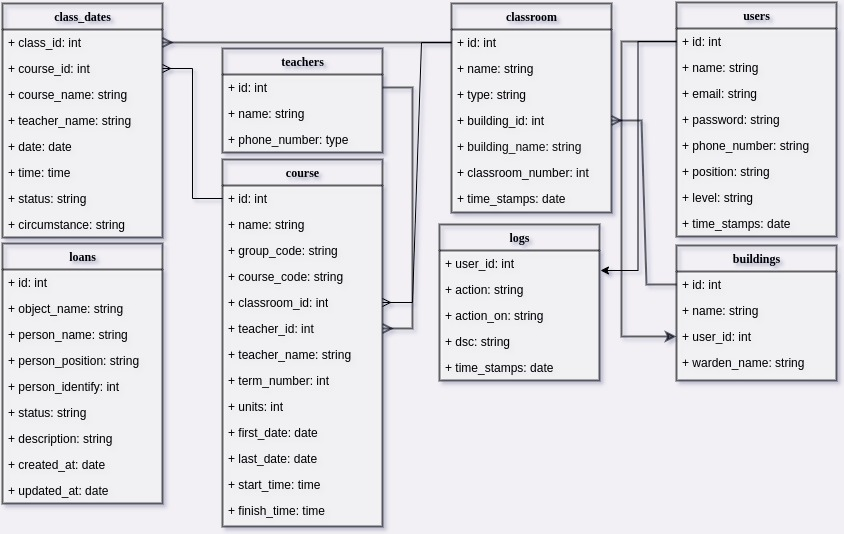
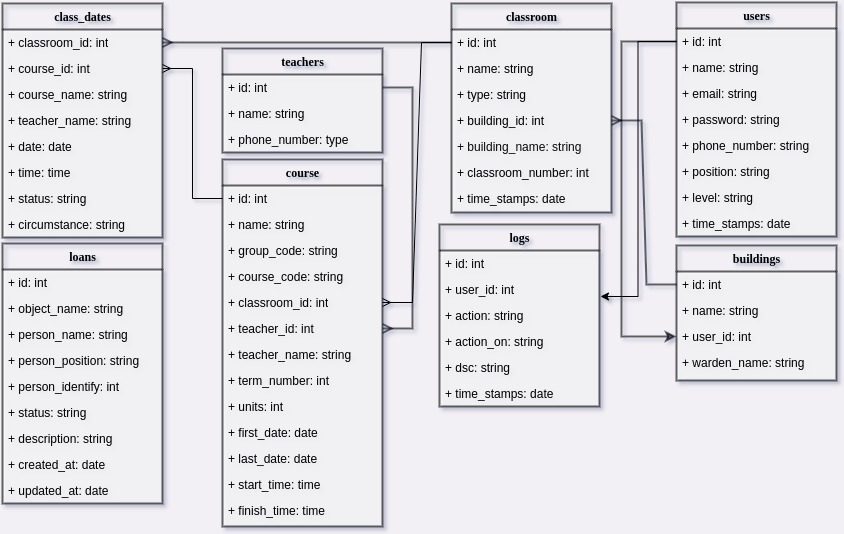
create log model with all

diff --git a/Education/app/Policies/LogPolicy.php b/Education/app/Policies/LogPolicy.php
@@ -1,0 +1,94 @@
+<?php
+
+namespace App\Policies;
+
+use App\Models\Log;
+use App\Models\User;
+use Illuminate\Auth\Access\HandlesAuthorization;
+
+class LogPolicy
+{
+    use HandlesAuthorization;
+
+    /**
+     * Determine whether the user can view any models.
+     *
+     * @param  \App\Models\User  $user
+     * @return \Illuminate\Auth\Access\Response|bool
+     */
+    public function viewAny(User $user)
+    {
+        //
+    }
+
+    /**
+     * Determine whether the user can view the model.
+     *
+     * @param  \App\Models\User  $user
+     * @param  \App\Models\Log  $log
+     * @return \Illuminate\Auth\Access\Response|bool
+     */
+    public function view(User $user, Log $log)
+    {
+        //
+    }
+
+    /**
+     * Determine whether the user can create models.
+     *
+     * @param  \App\Models\User  $user
+     * @return \Illuminate\Auth\Access\Response|bool
+     */
+    public function create(User $user)
+    {
+        //
+    }
+
+    /**
+     * Determine whether the user can update the model.
+     *
+     * @param  \App\Models\User  $user
+     * @param  \App\Models\Log  $log
+     * @return \Illuminate\Auth\Access\Response|bool
+     */
+    public function update(User $user, Log $log)
+    {
+        //
+    }
+
+    /**
+     * Determine whether the user can delete the model.
+     *
+     * @param  \App\Models\User  $user
+     * @param  \App\Models\Log  $log
+     * @return \Illuminate\Auth\Access\Response|bool
+     */
+    public function delete(User $user, Log $log)
+    {
+        //
+    }
+
+    /**
+     * Determine whether the user can restore the model.
+     *
+     * @param  \App\Models\User  $user
+     * @param  \App\Models\Log  $log
+     * @return \Illuminate\Auth\Access\Response|bool
+     */
+    public function restore(User $user, Log $log)
+    {
+        //
+    }
+
+    /**
+     * Determine whether the user can permanently delete the model.
+     *
+     * @param  \App\Models\User  $user
+     * @param  \App\Models\Log  $log
+     * @return \Illuminate\Auth\Access\Response|bool
+     */
+    public function forceDelete(User $user, Log $log)
+    {
+        //
+    }
+}

diff --git a/Education/app/Http/Controllers/LogController.php b/Education/app/Http/Controllers/LogController.php
@@ -1,0 +1,86 @@
+<?php
+
+namespace App\Http\Controllers;
+
+use App\Http\Requests\StoreLogRequest;
+use App\Http\Requests\UpdateLogRequest;
+use App\Models\Log;
+
+class LogController extends Controller
+{
+    /**
+     * Display a listing of the resource.
+     *
+     * @return \Illuminate\Http\Response
+     */
+    public function index()
+    {
+        //
+    }
+
+    /**
+     * Show the form for creating a new resource.
+     *
+     * @return \Illuminate\Http\Response
+     */
+    public function create()
+    {
+        //
+    }
+
+    /**
+     * Store a newly created resource in storage.
+     *
+     * @param  \App\Http\Requests\StoreLogRequest  $request
+     * @return \Illuminate\Http\Response
+     */
+    public function store(StoreLogRequest $request)
+    {
+        //
+    }
+
+    /**
+     * Display the specified resource.
+     *
+     * @param  \App\Models\Log  $log
+     * @return \Illuminate\Http\Response
+     */
+    public function show(Log $log)
+    {
+        //
+    }
+
+    /**
+     * Show the form for editing the specified resource.
+     *
+     * @param  \App\Models\Log  $log
+     * @return \Illuminate\Http\Response
+     */
+    public function edit(Log $log)
+    {
+        //
+    }
+
+    /**
+     * Update the specified resource in storage.
+     *
+     * @param  \App\Http\Requests\UpdateLogRequest  $request
+     * @param  \App\Models\Log  $log
+     * @return \Illuminate\Http\Response
+     */
+    public function update(UpdateLogRequest $request, Log $log)
+    {
+        //
+    }
+
+    /**
+     * Remove the specified resource from storage.
+     *
+     * @param  \App\Models\Log  $log
+     * @return \Illuminate\Http\Response
+     */
+    public function destroy(Log $log)
+    {
+        //
+    }
+}

diff --git a/Education/database/migrations/2022_12_08_190207_create_logs_table.php b/Education/database/migrations/2022_12_08_190207_create_logs_table.php
@@ -1,0 +1,35 @@
+<?php
+
+use Illuminate\Database\Migrations\Migration;
+use Illuminate\Database\Schema\Blueprint;
+use Illuminate\Support\Facades\Schema;
+
+return new class extends Migration
+{
+    /**
+     * Run the migrations.
+     *
+     * @return void
+     */
+    public function up()
+    {
+        Schema::create('logs', function (Blueprint $table) {
+            $table->id();
+            $table->foreign('user_id')->references('id')->on('users');
+            $table->string('action');
+            $table->string('action_on');
+            $table->string('dsc');
+            $table->timestamps();
+        });
+    }
+
+    /**
+     * Reverse the migrations.
+     *
+     * @return void
+     */
+    public function down()
+    {
+        Schema::dropIfExists('logs');
+    }
+};

diff --git a/Education/app/Http/Requests/UpdateLogRequest.php b/Education/app/Http/Requests/UpdateLogRequest.php
@@ -1,0 +1,30 @@
+<?php
+
+namespace App\Http\Requests;
+
+use Illuminate\Foundation\Http\FormRequest;
+
+class UpdateLogRequest extends FormRequest
+{
+    /**
+     * Determine if the user is authorized to make this request.
+     *
+     * @return bool
+     */
+    public function authorize()
+    {
+        return false;
+    }
+
+    /**
+     * Get the validation rules that apply to the request.
+     *
+     * @return array<string, mixed>
+     */
+    public function rules()
+    {
+        return [
+            //
+        ];
+    }
+}

diff --git a/Education/app/Http/Requests/StoreLogRequest.php b/Education/app/Http/Requests/StoreLogRequest.php
@@ -1,0 +1,30 @@
+<?php
+
+namespace App\Http\Requests;
+
+use Illuminate\Foundation\Http\FormRequest;
+
+class StoreLogRequest extends FormRequest
+{
+    /**
+     * Determine if the user is authorized to make this request.
+     *
+     * @return bool
+     */
+    public function authorize()
+    {
+        return false;
+    }
+
+    /**
+     * Get the validation rules that apply to the request.
+     *
+     * @return array<string, mixed>
+     */
+    public function rules()
+    {
+        return [
+            //
+        ];
+    }
+}

diff --git a/Education/database/factories/LogFactory.php b/Education/database/factories/LogFactory.php
@@ -1,0 +1,23 @@
+<?php
+
+namespace Database\Factories;
+
+use Illuminate\Database\Eloquent\Factories\Factory;
+
+/**
+ * @extends \Illuminate\Database\Eloquent\Factories\Factory<\App\Models\Log>
+ */
+class LogFactory extends Factory
+{
+    /**
+     * Define the model's default state.
+     *
+     * @return array<string, mixed>
+     */
+    public function definition()
+    {
+        return [
+            //
+        ];
+    }
+}

diff --git a/Education/database/seeders/LogSeeder.php b/Education/database/seeders/LogSeeder.php
@@ -1,0 +1,19 @@
+<?php
+
+namespace Database\Seeders;
+
+use Illuminate\Database\Console\Seeds\WithoutModelEvents;
+use Illuminate\Database\Seeder;
+
+class LogSeeder extends Seeder
+{
+    /**
+     * Run the database seeds.
+     *
+     * @return void
+     */
+    public function run()
+    {
+        //
+    }
+}

diff --git a/Education/app/Models/Log.php b/Education/app/Models/Log.php
@@ -1,0 +1,11 @@
+<?php
+
+namespace App\Models;
+
+use Illuminate\Database\Eloquent\Factories\HasFactory;
+use Illuminate\Database\Eloquent\Model;
+
+class Log extends Model
+{
+    use HasFactory;
+}
